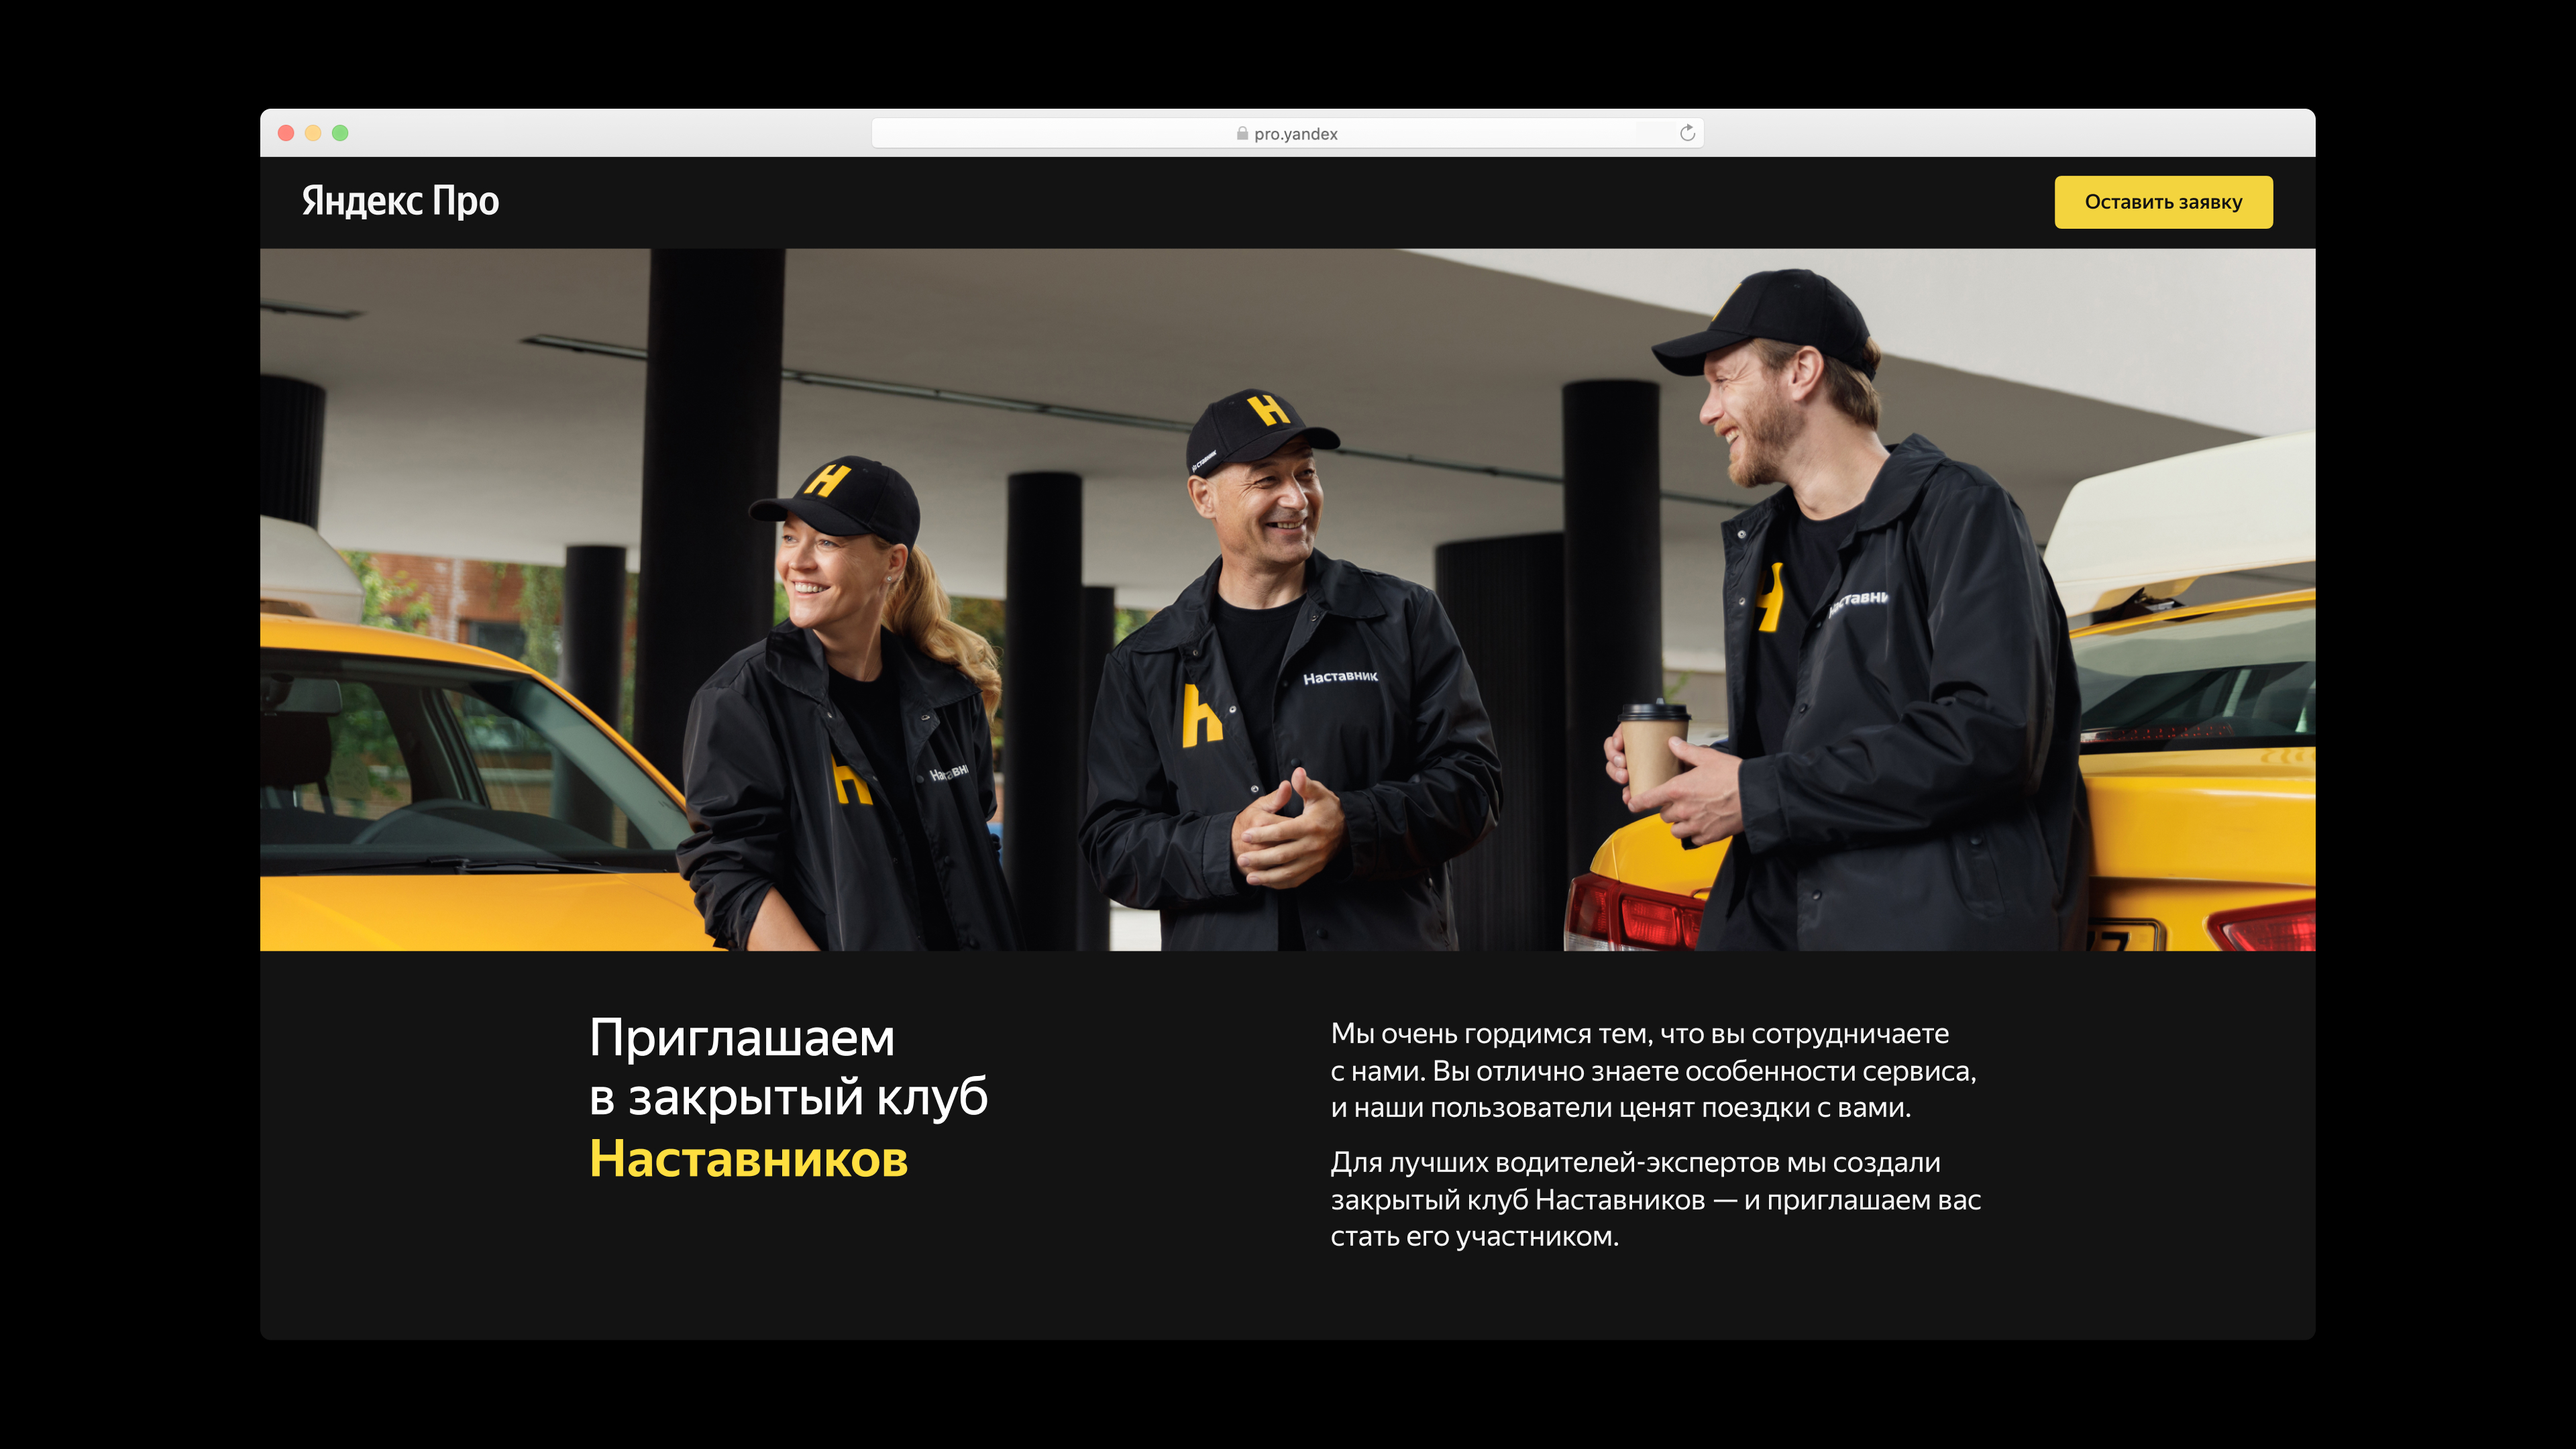
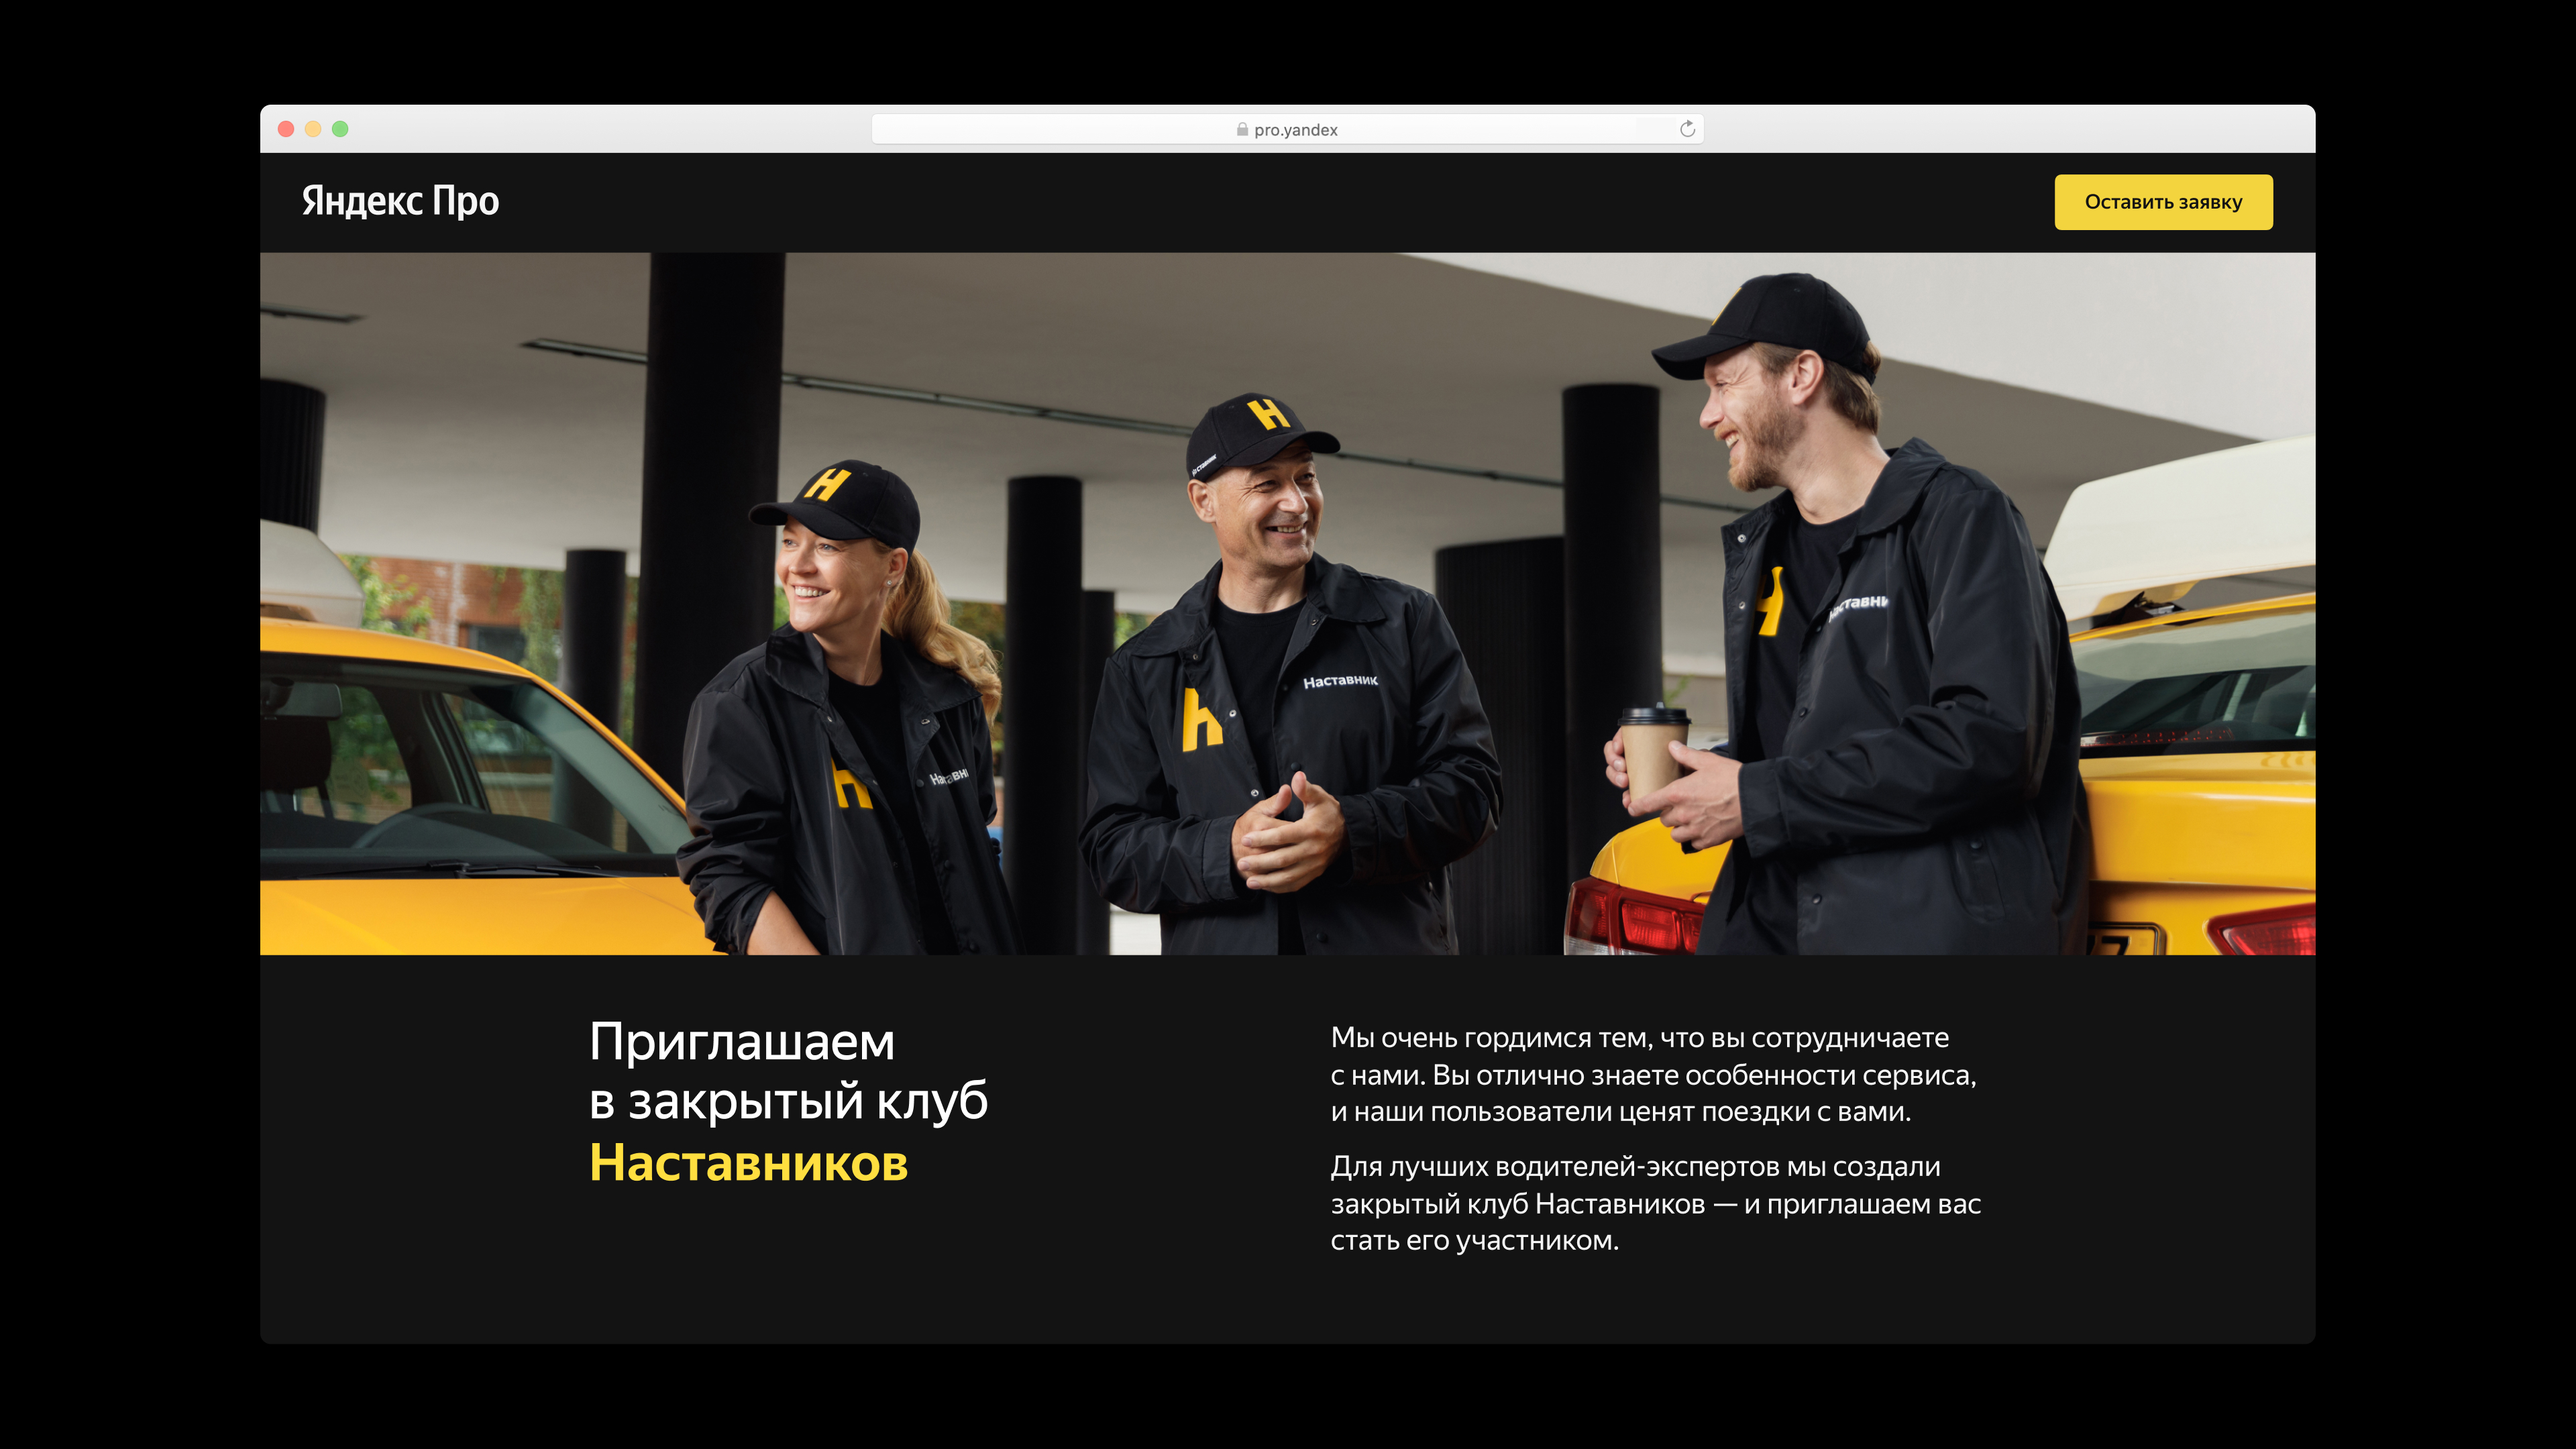
Mentors case rework

diff --git a/style.css b/style.css
@@ -246,11 +246,6 @@ h1 {
     line-height: 1.55rem;
     letter-spacing: -0.02rem;
 }
-  .case-columns p {
-    font-size: 1rem;
-    line-height: 1.25rem;
-    letter-spacing: -0.02rem;
-} 
 }
 @media screen and (max-width: 700px) {
   .first {
@@ -381,7 +376,19 @@ h2 {
   letter-spacing: -0.05rem;
   margin: 10vw auto auto auto;
 }
-
+@media screen and (max-width: 700px) {
+  .caption {
+    font-size: 1rem;
+    line-height: 1.35rem;
+    font-weight: 300;
+    margin: auto auto 0.2vw auto;
+  }
+  .case-columns p {
+    font-size: 1rem;
+    line-height: 1.35rem;
+    font-weight: 300;
+  }
+}
 /*link*/
 .card-link:hover h5 {
   color: black;

diff --git a/mentors.html b/mentors.html
@@ -30,7 +30,7 @@
     </div>
   </div>
   <div class="case">
-    <img class="row-img" src="./mentors/1.jpg">
+    <img class="row-img" src="./mentors/1.png">
     <p class="caption">In Russian mentor called Наставник (Nastavnik). Sign based on the first letter H.</p>
   </div>
   <div class="case">
@@ -40,6 +40,7 @@
     <div class="case-columns">
       <div class="case-columns-1">
         <img class="column-img" src="./mentors/3.jpg">
+        <p class="caption"></p>
       </div>  
       <div class="case-columns-2">
         <img class="column-img" src="./mentors/4.jpg">
